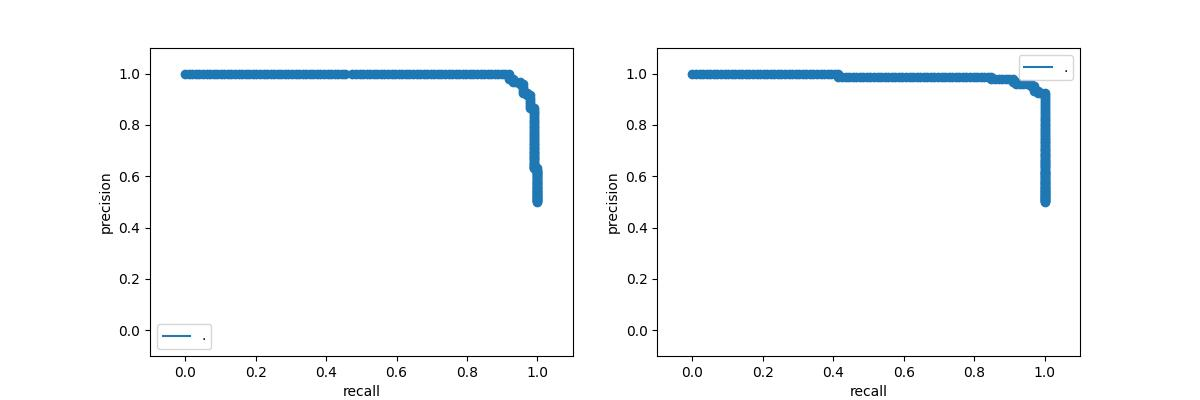
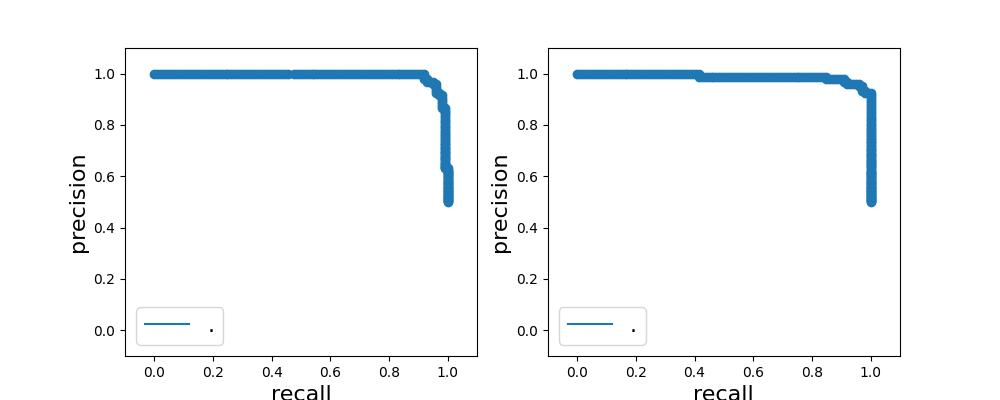
add all modes

diff --git a/utils.py b/utils.py
@@ -218,15 +218,15 @@ def row_plot_1d(data, xlabel_list, ylabel_list, legend_list, save_path):
     save_path: str e.g. *.jpg
     """
     n = len(data)
-    plt.figure(figsize=(6*n,4))
+    plt.figure(figsize=(5*n,4))
     zip_gen = zip(data, xlabel_list, ylabel_list, legend_list)
     for i, (curves, xlabel, ylabel, legend) in enumerate(zip_gen):
         plt.subplot(1,n,1+i)
         for curve in curves:
             plt.plot(curve)
-        plt.xlabel(xlabel)
-        plt.ylabel(ylabel)
-        plt.legend(legend) if legend is not None else None
+        plt.xlabel(xlabel, fontsize=16)
+        plt.ylabel(ylabel, fontsize=16)
+        plt.legend(legend, fontsize=16) if legend is not None else None
     plt.savefig(save_path)
 
 
@@ -235,16 +235,16 @@ def row_plot_2d(data_x, data_y, xlabel_list, ylabel_list, legend_list, save_path
     similar to row_plot_1d, but plot x and y
     """
     n = len(data_x)
-    plt.figure(figsize=(6*n,4))
+    plt.figure(figsize=(5*n,4))
     zip_gen = zip(data_x, data_y, xlabel_list, ylabel_list, legend_list)
     for i, (curves_x, curves_y, xlabel, ylabel, legend) in enumerate(zip_gen):
         plt.subplot(1,n,1+i)
         for curve_x, curve_y, label in zip(curves_x, curves_y, legend):
             plt.plot(curve_x, curve_y, label=label)
             plt.scatter(curve_x, curve_y)
-        plt.xlabel(xlabel)
-        plt.ylabel(ylabel)
+        plt.xlabel(xlabel, fontsize=16)
+        plt.ylabel(ylabel, fontsize=16)
         plt.xlim(-0.1,1.1)
         plt.ylim(-0.1,1.1)
-        plt.legend()
+        plt.legend(fontsize=16)
     plt.savefig(save_path)

diff --git a/README.md b/README.md
@@ -101,19 +101,48 @@ The code will be executed in the following steps:
 + Feel free to contact me if you have any question. Thanks.
 
 # Results
-### Training plot
+### Train
+##### plot
 ![a](results/exp0/curve_loss_f1_map.jpg)
-### Validation plot
+
+### Valid
+##### plot
 ![a](results/exp0/curve_pr.jpg)
 ![a](results/exp0/curve_prf.jpg)
 ![a](results/exp0/curve_roc.jpg)
-### default_threshold = 0.5
+##### default_threshold = 0.5
 | AP 0  | AP 1  | f1 0 | f1 1 | precision 0 | precision 1 | recall 0 | recall 1 | mAUC  |
 | -     | -     | -    | -    | -           | -           | -        | -        | -     | 
 | 0.992 | 0.986 | 0.95 | 0.94 | 0.93        | 0.96        | 0.96     | 0.93     | 0.989 |
-Confusion matrix = [[GT0_PD0, GT0_PD1], [GT1_PD0, GT1_PD1]] = [[95, 4], [7, 92]]
-### best_threshold = 0.1 (best f1 threshold optimization) 
+
+|      | PD=0 | PD=1 |
+| -    | -    | -    |
+| GT=0 | 95   | 4    |
+| GT=1 | 7    | 92   |
+
+##### best_threshold = 0.1 (best f1 threshold optimization) 
 | AP 0  | AP 1  | f1 0 | f1 1 | precision 0 | precision 1 | recall 0 | recall 1 | mAUC  |
 | -     | -     | -    | -    | -           | -           | -        | -        | -     | 
 | 0.992 | 0.986 | 0.96 | 0.96 | 1.00        | 0.93        | 0.92     | 1.00     | 0.989 |
-Confusion matrix = [[GT0_PD0, GT0_PD1], [GT1_PD0, GT1_PD1]] = [[91, 8], [0, 99]]
+
+|      | PD=0 | PD=1 |
+| -    | -    | -    |
+| GT=0 | 91   | 8    |
+| GT=1 | 0    | 99   |
+
+##### prediction e.g. pred_valid.csv
+| data                           | label | pred_probs_all |
+| -                              | -     | -              | 
+| .../test_set/cats/cat.4001.jpg | 0     | (0.998, 0.002) |
+| ...                            | ...   | ...            |
+| .../test_set/dogs/dog.4099.jpg | 1     | (0.007, 0.993) |
+
+##### visualization of false classified images ()
+![a](results/exp0/confusion/gt_0_pd_1/cat4008.jpg)
+The difficulty might be the cage.
+p(cats)=0.807, p(dogs)=0.193, but the best threshold = 0.10
+
+### Infer
+##### visualization of the most unconfident data
+![a](results/exp0/worst_imgs/cat4087.jpg)
+The difficulty might be the vague.
